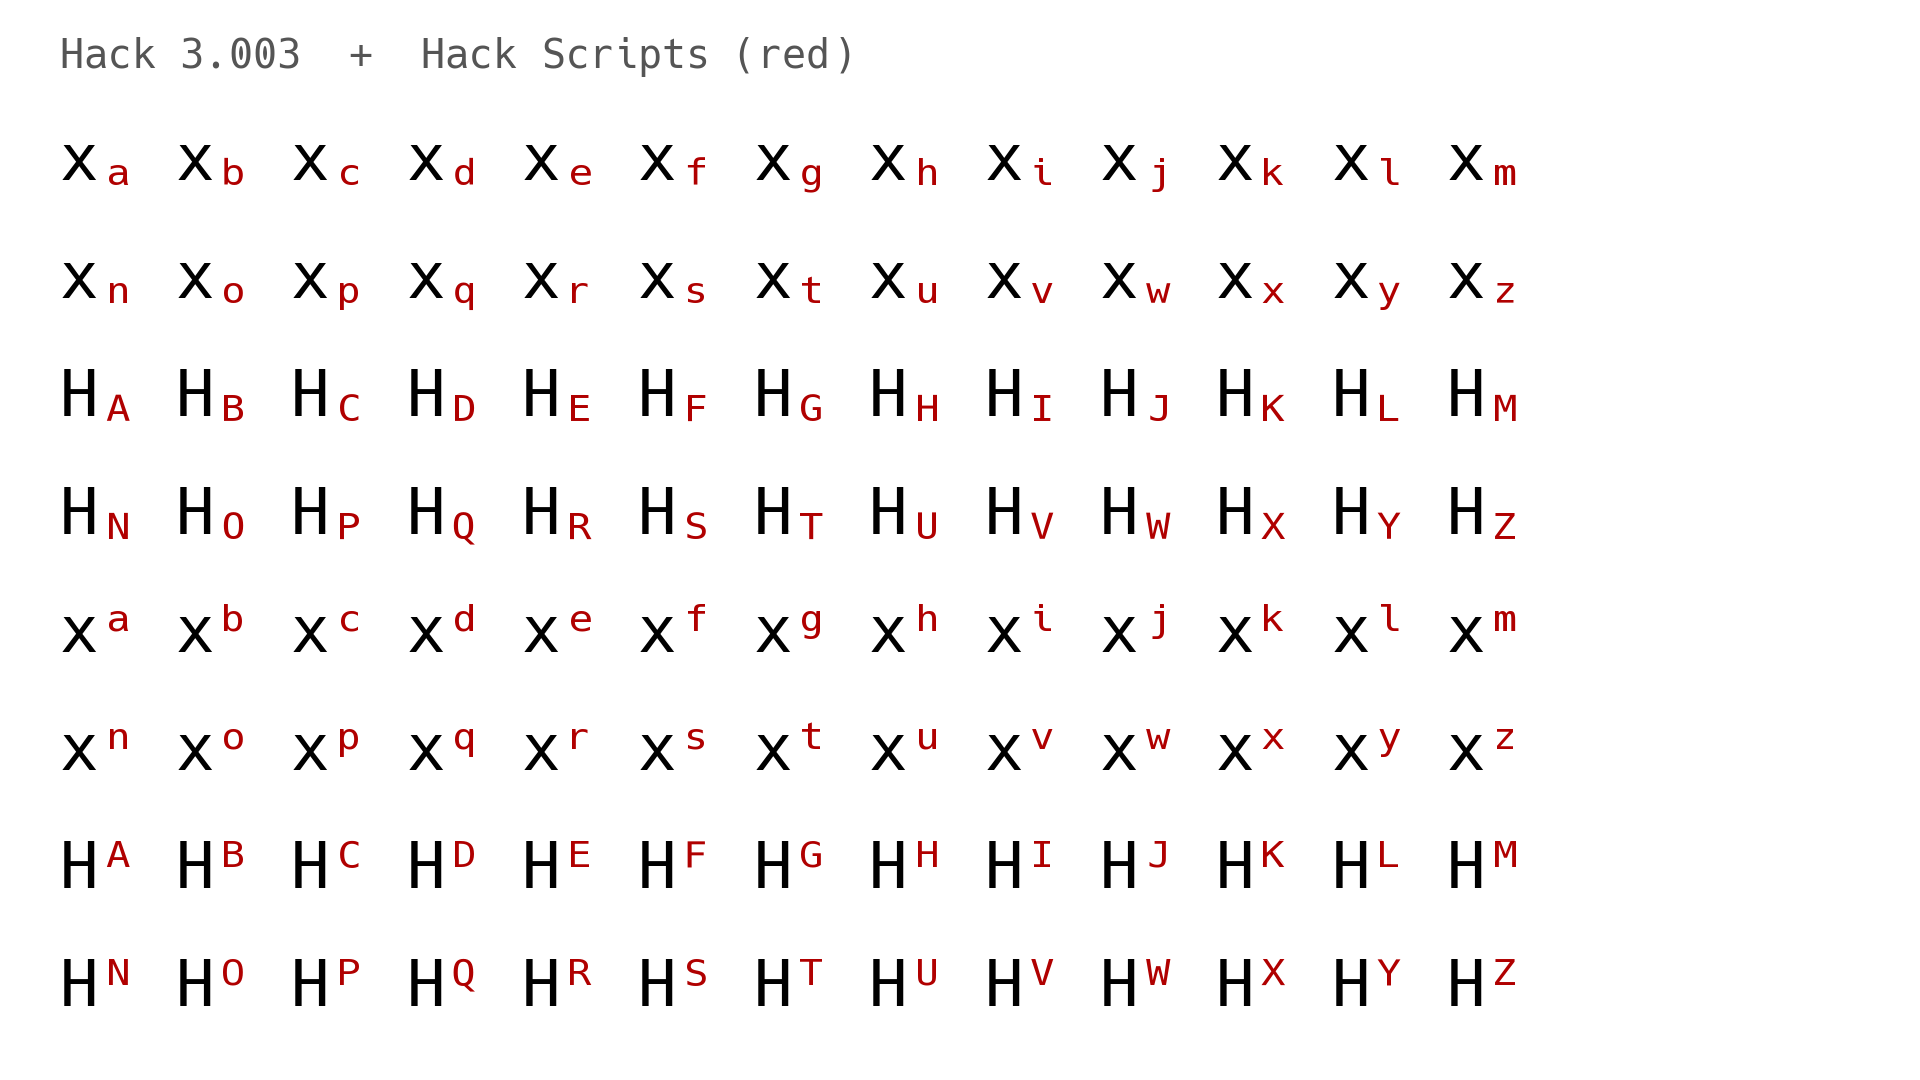
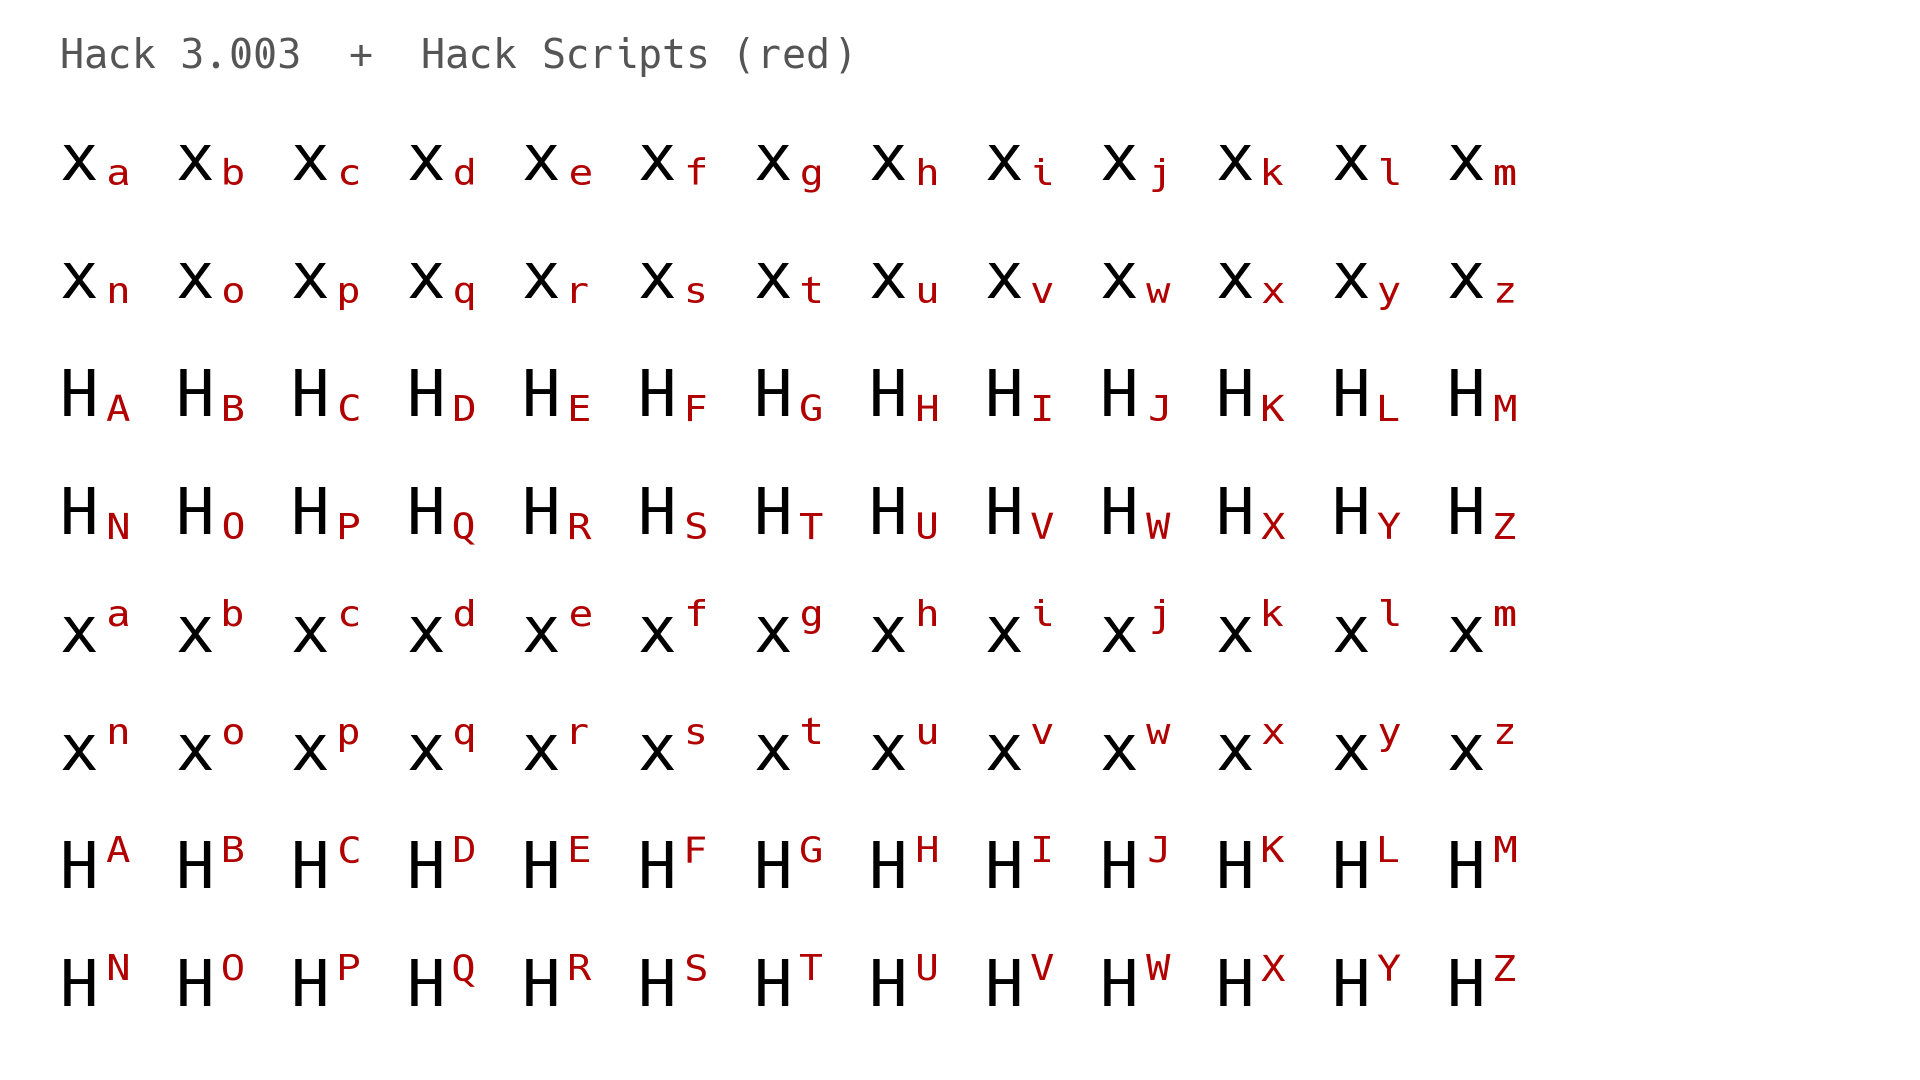
[c] raise superscripts above the cap height where subscripts drop below the baseline, and rename --subscripts to --placement since it now covers both

diff --git a/build.py b/build.py
@@ -1,6 +1,6 @@
 #!/usr/bin/env python3
 #Builds the companion fonts listed in sources.json into fonts/<Family>/: the font, its source's license, and config snippets for kitty, Ghostty, and fontconfig.
-#Usage: build.py [--subscripts STYLE] [family ...], or build.py --font <file> <family> to build a companion and its config snippets for any font file into the current directory. build.py --help lists the options.
+#Usage: build.py [--placement STYLE] [family ...], or build.py --font <file> <family> to build a companion and its config snippets for any font file into the current directory. build.py --help lists the options.
 #Downloads are cached in $XDG_CACHE_HOME/scripts_fonts/downloads and checked against the sha256 in sources.json.
 import argparse
 import hashlib
@@ -29,7 +29,7 @@ from fontTools.varLib import instancer
 ROOT = os.path.dirname(os.path.abspath(__file__))
 CACHE = os.path.join(os.environ.get('XDG_CACHE_HOME') or os.path.expanduser('~/.cache'), 'scripts_fonts', 'downloads')
 VERSION = '1.000'
-SUBSCRIPT_STYLES = ['on-baseline', 'lowered', 'capitals-lowered']
+PLACEMENTS = ['flush', 'outside', 'capitals-outside']
 
 SUBSCRIPTS = {'a': 0x2090, 'e': 0x2091, 'o': 0x2092, 'x': 0x2093, 'h': 0x2095, 'k': 0x2096, 'l': 0x2097, 'm': 0x2098, 'n': 0x2099, 'p': 0x209A, 's': 0x209B, 't': 0x209C, 'i': 0x1D62, 'r': 0x1D63, 'u': 0x1D64, 'v': 0x1D65, 'j': 0x2C7C}
 SUPERSCRIPTS = {
@@ -148,7 +148,7 @@ def member_of(archive, name):
     return tarfile.open(fileobj=io.BytesIO(archive)).extractfile(name).read()
 
 
-def companion(source, family, subscripts='capitals-lowered'):
+def companion(source, family, placement='capitals-outside'):
     #returns a TTFont holding every script letter the source lacks, drawn from the source's own letters
     cmap = source.getBestCmap()
     glyphs = source.getGlyphSet()
@@ -189,21 +189,25 @@ def companion(source, family, subscripts='capitals-lowered'):
                 return extra if extra > 0.05 * x_scale * base_stem else 0
         return 0
 
-    #without a superscript to measure: 63% by 56% (DejaVu Sans Mono's proportions), with capitals reaching the cap height
-    superscript = measured(['ᵃa', 'ⁿn', 'ᵒo', 'ˣx', 'ᴬA', 'ᴴH']) or (0.63, 0.56, cap_top * 0.44)
+    #how far scripts go past the baseline or the cap height when the font gives nothing to copy: its own subscript offset, or nothing for flush placement (see PLACEMENTS)
+    offset = 0 if placement == 'flush' else source['OS/2'].ySubscriptYOffset
+    #without a superscript to measure: 63% by 56% (DejaVu Sans Mono's proportions), with capitals reaching the offset above the cap height
+    superscript = measured(['ᵃa', 'ⁿn', 'ᵒo', 'ˣx', 'ᴬA', 'ᴴH']) or (0.63, 0.56, cap_top * 0.44 + offset)
     superscript += (extra_weight(['ⁿn', 'ʰh', 'ᵐm', 'ᵘu'], superscript[0]),)
-    #without a subscript to measure: the superscript's size and weight, on the baseline or dropped by the font's own subscript offset (see SUBSCRIPT_STYLES)
-    drop = 0 if subscripts == 'on-baseline' else -source['OS/2'].ySubscriptYOffset
+    #without a subscript to measure: the superscript's size and weight, the offset below the baseline
     subscript = measured(['ₐa', 'ₙn', 'ₒo', 'ₓx', 'ₑe'])
-    subscript = subscript + (extra_weight(['ₙn', 'ₕh', 'ₘm'], subscript[0]),) if subscript else (superscript[0], superscript[1], drop, superscript[3])
-    #capitals reach so high that on the baseline they read as small capitals, so they drop below it even where the font's own subscripts sit on it
-    capital_subscript = subscript[:2] + (drop,) + subscript[3:] if subscripts == 'capitals-lowered' and subscript[2] >= -0.02 * source['head'].unitsPerEm else subscript
+    subscript = subscript + (extra_weight(['ₙn', 'ₕh', 'ₘm'], subscript[0]),) if subscript else (superscript[0], superscript[1], -offset, superscript[3])
+    #capitals are so tall that flush with the baseline or the cap height they read as small capitals, so with capitals-outside they go past the line even where the font's own lowercase scripts sit on it; a font's own capital superscripts still set where the others go
+    small = 0.02 * source['head'].unitsPerEm
+    capital_subscript = subscript[:2] + (-offset,) + subscript[3:] if placement == 'capitals-outside' and subscript[2] >= -small else subscript
+    own_capitals = any(real_pair(script, base) for script, base in ['ᴬA', 'ᴴH', 'ᴮB'])
+    capital_superscript = superscript[:2] + (cap_top + offset - superscript[1] * cap_top,) + superscript[3:] if placement == 'capitals-outside' and not own_capitals and superscript[1] * cap_top + superscript[2] <= cap_top + small else superscript
 
     #a script letter the font lacks, or only fakes with the ordinary letter, is drawn; a terminal that maps code points to fonts then overrides the fake
     letters = string.ascii_lowercase + string.ascii_uppercase
     targets = sorted(
         [(subscript_point(c), c, capital_subscript if c.isupper() else subscript) for c in letters if not real_pair(chr(subscript_point(c)), c)]
-        + [(superscript_point(c), c, superscript) for c in letters if not real_pair(chr(superscript_point(c)), c)]
+        + [(superscript_point(c), c, capital_superscript if c.isupper() else superscript) for c in letters if not real_pair(chr(superscript_point(c)), c)]
     )
 
     def scaled(letter, x_scale, y_scale, rise, extra):
@@ -268,13 +272,13 @@ def terminal_configs(font, family, source_family):
     }
 
 
-def build(entry, subscripts='capitals-lowered'):
+def build(entry, placement='capitals-outside'):
     archive = fetch(entry['url'], entry['sha256'])
     source = TTFont(io.BytesIO(member_of(archive, entry['member']) if 'member' in entry else archive))
     if 'instance' in entry:
         source = instancer.instantiateVariableFont(source, entry['instance'])
     family = entry['family']
-    font = companion(source, family, subscripts)
+    font = companion(source, family, placement)
     out_dir = os.path.join(ROOT, 'fonts', family.replace(' ', ''))
     os.makedirs(out_dir, exist_ok=True)
     font.save(os.path.join(out_dir, family.replace(' ', '') + '-Regular.ttf'))
@@ -288,11 +292,11 @@ if __name__ == '__main__':
     parser = argparse.ArgumentParser(description='Build companion fonts of sub- and superscript letters.')
     parser.add_argument('families', nargs='*', help='families from sources.json to build (default: all of them)')
     parser.add_argument('--font', nargs=2, metavar=('FILE', 'FAMILY'), help='build a companion named FAMILY for the font FILE into the current directory instead')
-    parser.add_argument('--subscripts', choices=SUBSCRIPT_STYLES, default='capitals-lowered', help='where subscripts sit when the font has none of its own to copy: on-baseline puts them all on the baseline; lowered drops them all by the font\'s subscript offset; capitals-lowered (the default) does the same and also drops capitals in fonts whose own subscripts sit on the baseline')
+    parser.add_argument('--placement', choices=PLACEMENTS, default='capitals-outside', help='where scripts go when the font has none of its own to copy: flush puts subscripts on the baseline and superscript capitals at the cap height; outside moves them past those lines by the font\'s subscript offset; capitals-outside (the default) does the same and also moves capitals past the line in fonts whose own lowercase scripts sit on it')
     args = parser.parse_args()
     if args.font:
         source = TTFont(args.font[0], fontNumber=0)
-        font = companion(source, args.font[1], args.subscripts)
+        font = companion(source, args.font[1], args.placement)
         font.save(args.font[1].replace(' ', '') + '-Regular.ttf')
         for name, text in terminal_configs(font, args.font[1], source['name'].getBestFamilyName()).items():
             open(name, 'w').write(text)
@@ -303,4 +307,4 @@ if __name__ == '__main__':
             sys.exit(f'not in sources.json: {", ".join(sorted(unknown))}')
         for entry in entries:
             if not args.families or entry['family'] in args.families:
-                build(entry, args.subscripts)
+                build(entry, args.placement)

diff --git a/README.md b/README.md
@@ -79,7 +79,7 @@ Neovim treats these characters as one column wide as long as `ambiwidth` is `sin
 - The scale and vertical position come from a pair like a and ᵃ, or n and ⁿ. A font with no script letters gets 63% width, 56% height, and superscript capitals reaching the cap height, which are DejaVu Sans Mono's proportions.
 - Many fonts draw their script letters with heavier strokes than plain scaling gives. The build measures this from a pair like n and ⁿ and thickens the strokes with FontForge to match.
 - Each glyph is centered in the font's cell, so it stays one column wide.
-- Subscripts follow the font's own subscripts when it has them. Otherwise they drop below the baseline by the subscript offset the font records (`ySubscriptYOffset`, 0.075 to 0.14 em in these fonts). Capital subscripts always drop below the baseline, even in fonts whose own subscripts sit on it, like DejaVu Sans Mono: Unicode has no capital subscripts to match, and capitals on the baseline reach so high that they read as small capitals rather than subscripts. `--subscripts` changes this (see below).
+- Scripts follow the font's own sub- and superscripts when it has them. Otherwise they go past the baseline or the cap height by the subscript offset the font records (`ySubscriptYOffset`, 0.075 to 0.14 em in these fonts): subscripts drop below the baseline, and superscript capitals rise above the cap height. Capitals go past the line even in fonts whose own lowercase scripts sit on it, like DejaVu Sans Mono's subscripts, because capitals flush with the line are so tall that they read as small capitals. The exception is a font with its own capital superscripts, like ᴬ in DejaVu Sans Mono: the missing ones match those. `--placement` changes this (see below).
 - A few fonts fill a script code point with a full-size copy of the letter, like Inconsolata's ⁿ. The build treats those as missing, so terminals that map code points to fonts draw the companion's letter instead.
 
 Building needs Python with fontTools and FontForge's Python module (`python-fonttools` and `fontforge` on Arch). `preview.py` also needs Pillow.
@@ -90,11 +90,11 @@ Building needs Python with fontTools and FontForge's Python module (`python-font
 ./build.py --font MyFont.ttf 'My Font Scripts'   # any other font file
 ```
 
-`--subscripts` sets where subscripts go when the font has none of its own to copy:
+`--placement` sets where scripts go when the font has none of its own to copy:
 
-- `capitals-lowered` (the default): drop every subscript by the font's subscript offset, and drop capitals by it even in fonts whose own subscripts sit on the baseline.
-- `lowered`: drop every subscript by the font's subscript offset, but let capitals follow the font's own subscripts like lowercase does.
-- `on-baseline`: put every subscript on the baseline, unless the font's own subscripts drop below it.
+- `capitals-outside` (the default): move every subscript below the baseline and every superscript up so capitals pass the cap height, by the font's subscript offset, and do the same for capitals in fonts whose own lowercase scripts sit on the line.
+- `outside`: the same, except that capitals follow the font's own lowercase scripts like lowercase does.
+- `flush`: put subscripts on the baseline and superscript capitals at the cap height, unless the font's own scripts go past those lines.
 
 FontForge prints "Internal Error (overlap)" messages for a few Cascadia Code glyphs. The resulting outlines are correct.
 
